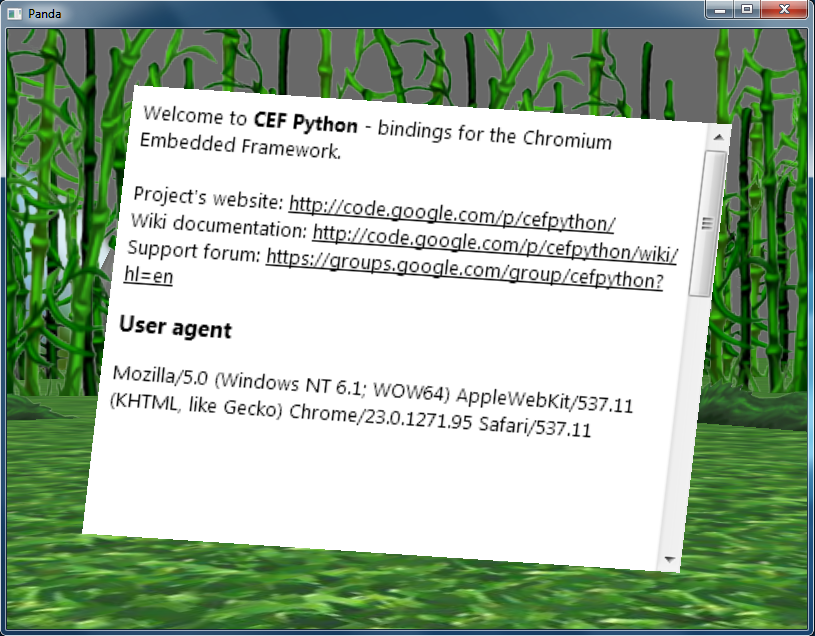
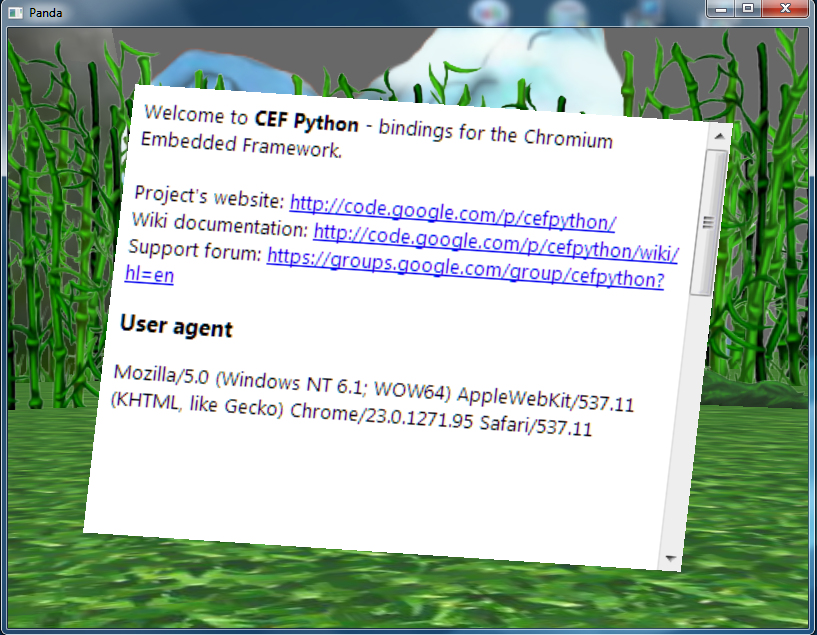
Added an example of saving browser view as an image to cefadvanced.py.
Updated cefwxpanel samples.

Fixed panda3d example, the browser was in grayscale.

diff --git a/cefpython/cef1/windows/binaries/cefadvanced.html b/cefpython/cef1/windows/binaries/cefadvanced.html
@@ -6,6 +6,7 @@
     <style>
     body { font: 13px Segoe UI, Arial; line-height: 1.4em; }
     pre { background: #ddd; font: 12px Consolas, Courier New; }
+    h4 { color: #666; margin: 1em 0em; }
     </style>
 </head>
 <body>
@@ -112,9 +113,22 @@ https://groups.google.com/group/cefpython?hl=en</a><br>
     <a href="javascript:((frame.Undo()))">Undo()</a><br>
     <a href="javascript:((frame.ViewSource()))">ViewSource()</a><br>
 
+<h3>Browser view as an image</h3>
+
+    Browser.GetImage() returns PaintBuffer, that object
+    has method called GetString() that returns the buffer
+    as a string that can be later passed to Python Imaging Library
+    by calling PIL.Image.fromstring() and saved as a PNG (or
+    other format) to a file. Test it:<br>
+    <a href="javascript:python.SaveImage('!cefadvanced.png', 'PNG')">
+    python.SaveImage('!cefadvanced.png', 'PNG')</a><br>
+    (you need to have installed the PIL extension).
+
 <h3>Test unicode string</h3>
 
-    <a href="javascript:alert(python.GetUnicodeString())">python.GetUnicodeString()</a>
+    <a href="javascript:alert(python.GetUnicodeString())">
+    python.GetUnicodeString()</a><br>
+    You should see a long dash in python 2.7.
 
 <h3>Test creation of second browser</h3>
 
@@ -145,10 +159,6 @@ https://groups.google.com/group/cefpython?hl=en</a><br>
 
     <textarea id=jscode>alert('test me')</textarea><br>
     <a href="javascript:python.ExecuteJavascript(jscode.value)">python.ExecuteJavascript(jscode.value)</a> - execute javascript from the textarea above.
-
-<h3>Frame.LoadUrl(url)</h3>
-
-    <a href="javascript:python.LoadUrl()">python.LoadUrl()</a> - will load "cefsimple.html" into main frame of this window.
 
 <h3>Frames</h3>
 
@@ -183,9 +193,6 @@ https://groups.google.com/group/cefpython?hl=en</a><br>
     Call __browser.GetMainFrame().GetProperty("PyConfig"): <a href="javascript:python.PrintPyConfig()">python.PrintPyConfig()</a><br>
     Try setting PyConfig during runtime using __browser.GetMainFrame().SetProperty(): <a href="javascript:python.ChangePyConfig()">python.ChangePyConfig()</a> (then call python.PrintPyConfig())
 
-    <h4>Infinite recursion</h4>
-    Test infinite recursion: <a href="javascript:python.Test1(window)">python.Test1(window)</a> - you will see a python exception in console (also in error.log), data structures can have maximum 8 levels of nesting.
-
 <h3>Javasript callbacks</h3>
 
     <script>
@@ -193,18 +200,15 @@ https://groups.google.com/group/cefpython?hl=en</a><br>
     {
         alert("MyJSCallback() called\narg1="+JSON.stringify(arg1)+"\narg2="+JSON.stringify(arg2)+"\narg3="+JSON.stringify(arg3)+"\narg4="+JSON.stringify(arg4))
     }
-    function MyJSCallback2()
-    {
-        throw new Error("asd")
-    }
     </script>
 
-    <a href="javascript:python.TestJavascriptCallback(MyJSCallback)">python.TestJavascriptCallback(MyJSCallback)</a> - MyJSCallback alerts arguments
-    <br>
-    <a href="javascript:python.TestJavascriptCallback(MyJSCallback2)">python.TestJavascriptCallback(MyJSCallback2)</a> - MyJSCallback2 throws new Error("asd")
-
+    <a href="javascript:python.TestJavascriptCallback(MyJSCallback)">
+    python.TestJavascriptCallback(MyJSCallback)</a><br>
+    MyJSCallback alerts arguments.
 
 <h3>Python callbacks</h3>
+
+    <p>See the output in the console.</p>
 
     <script>
     function JSCallbackForPythonCallback(pycallback)
@@ -216,13 +220,36 @@ https://groups.google.com/group/cefpython?hl=en</a><br>
     <a href="javascript:python.TestPythonCallbackThroughReturn()('some')">python.TestPythonCallbackThroughReturn()('some')</a><br>
     <a href="javascript:python.TestPythonCallbackThroughJavascriptCallback(JSCallbackForPythonCallback)">python.TestPythonCallbackThroughJavascriptCallback(JSCallbackForPythonCallback)</a>
 
-<h3>Catching javascript errors programmatically</h3>
+<h3>Errors</h3>
 
     <p>Typically when you browse a webpage your javascript errors appear in javascript console in developer tools (in cefadvanced.py there is a binding to F12 key for developer tools).</p>
 
-<h3>Test javascript error, OnUncaughtException() callback will catch it</h3>
+    <h4>Global exception handler</h4>
 
-    <p>Test javascript error: <a href="javascript:Undefined()">Undefined()</a></p>
+    <p>You can catch javascript errors programmatically by
+    using JavascriptContextHandler and the OnUncaughtException callback,
+    test it:<br>
+    <a href="javascript:DoSomeError()">
+    DoSomeError()</a>
+    </p>
+
+    <h4>Test error when calling javascript callback from python</h4>
+
+    <script>
+    function JsCallbackThrowingError()
+    {
+        throw new Error("some error message")
+    }
+    </script>
+    <a href="javascript:python.TestJavascriptCallback(JsCallbackThrowingError)">
+    python.TestJavascriptCallback(JsCallbackThrowingError)</a><br>
+    JsCallbackThrowingError throws new Error().
+
+    <h4>Infinite recursion</h4>
+
+    <a href="javascript:python.Test1(window)">python.Test1(window)</a><br>
+    You should see a python exception in the console (also in error.log),
+    data structures can have maximum 8 levels of nesting.
 
 <h3>Moving and resizing window</h3>
 

diff --git a/cefpython/cef1/windows/binaries/cefwxpanel_sample2.py b/cefpython/cef1/windows/binaries/cefwxpanel_sample2.py
@@ -2,15 +2,20 @@
 # __author__ = "Greg Kacy <grkacy@gmail.com>"
 
 import wx
+import wx.lib.agw.flatnotebook as fnb
 
 from cefwxpanel import initCEF, shutdownCEF, CEFWindow
 
 ROOT_NAME = "My Locations"
 
 URLS = ["cefsimple.html",
+        "http://google.com",
+        "http://maps.google.com",
+        "http://youtube.com",
         "http://yahoo.com",
         "http://wikipedia.com",
-        "http://maps.google.com"]
+        "http://cyaninc.com",
+        ]
 
 class MainFrame(wx.Frame):
     def __init__(self):
@@ -26,16 +31,17 @@ class MainFrame(wx.Frame):
             self.tree.AppendItem(self.root, url)
         self.tree.Expand(self.root)
 
-        self.tabs = wx.Notebook(self, id=-1, style=wx.BK_DEFAULT)
+        self.tabs = fnb.FlatNotebook(self, wx.ID_ANY, agwStyle=fnb.FNB_NODRAG|fnb.FNB_X_ON_TAB)
 
     def layoutComponents(self):
-        sizer = wx.BoxSizer()
+        sizer = wx.BoxSizer(wx.HORIZONTAL)
         sizer.Add(self.tree, 0, wx.EXPAND)
         sizer.Add(self.tabs, 1, wx.EXPAND)
         self.SetSizer(sizer)
 
     def initEventHandlers(self):
         self.Bind(wx.EVT_TREE_SEL_CHANGED, self.OnSelChanged, self.tree)
+        self.Bind(fnb.EVT_FLATNOTEBOOK_PAGE_CLOSING, self.OnPageClosing)
         self.Bind(wx.EVT_CLOSE, self.OnClose)
 
     def OnSelChanged(self, event):
@@ -44,7 +50,11 @@ class MainFrame(wx.Frame):
         if url and url != ROOT_NAME:
             cefPanel = CEFWindow(self.tabs, url=str(url))
             self.tabs.AddPage(cefPanel, url)
+            self.tabs.SetSelection(self.tabs.GetPageCount()-1)
+        event.Skip()
 
+    def OnPageClosing(self, event):
+        print "One could place some extra closing stuff here"
         event.Skip()
 
     def OnClose(self, event):

diff --git a/cefpython/cef1/windows/binaries/cefwxpanel.py b/cefpython/cef1/windows/binaries/cefwxpanel.py
@@ -27,7 +27,7 @@ class CEFWindow(wx.Window):
     """Standalone CEF component. The class provides facilites for interacting with wx message loop"""
     def __init__(self, parent, url="", size=(-1, -1), *args, **kwargs):
         wx.Window.__init__(self, parent, id=wx.ID_ANY, size=size, *args, **kwargs)
-
+        self.url = url
         windowInfo = cefpython.WindowInfo()
         windowInfo.SetAsChild(self.GetHandle())
         self.browser = cefpython.CreateBrowserSync(windowInfo, browserSettings={}, navigateURL=url)
@@ -63,12 +63,19 @@ class CEFWindow(wx.Window):
     def OnSize(self, event):
         cefpython.WindowUtils.OnSize(self.GetHandle(), 0, 0, 0)
 
+    #def Shutdown(self):
+        #print "CLOSING PAGE %s, YA MAN" % self.url
+        #self.timer.Stop()
+        #self.browser.CloseBrowser()
 #-------------------------------------------------------------------------------
 
-def initCEF():
-    """Initializes CEF, We should do it before initializing wx"""
+def initCEF(settings=None):
+    """Initializes CEF, We should do it before initializing wx
+       If no settings passed a default is used
+    """
     sys.excepthook = cefpython.ExceptHook
-    settings = {"log_severity": cefpython.LOGSEVERITY_VERBOSE, "release_dcheck_enabled": True}
+    if not settings:
+        settings = {"log_severity": cefpython.LOGSEVERITY_VERBOSE, "release_dcheck_enabled": True}
     cefpython.Initialize(settings)
 
 def shutdownCEF():

diff --git a/cefpython/cef1/windows/binaries/cefadvanced.py b/cefpython/cef1/windows/binaries/cefadvanced.py
@@ -269,6 +269,22 @@ class ClientHandler:
 class Python:
     browser = None
 
+    def SaveImage(self, outfile, format):
+        outfile = cefpython.GetRealPath(outfile)
+        try:
+            from PIL import Image
+        except:
+            print("PIL library not available, can't save image")
+            return
+        (width, height) = self.browser.GetSize(cefpython.PET_VIEW)
+        buffer = self.browser.GetImage(cefpython.PET_VIEW, width, height)
+        image = Image.fromstring(
+            "RGBA", (width,height),
+            buffer.GetString(mode="rgba", origin="top-left"),
+            "raw", "RGBA", 0, 1)
+        image.save(outfile, format)
+        os.system(outfile)
+
     def ExecuteJavascript(self, jsCode):
         self.browser.GetMainFrame().ExecuteJavascript(jsCode)
 

diff --git a/cefpython/cef1/windows/binaries/panda3d_.py b/cefpython/cef1/windows/binaries/panda3d_.py
@@ -55,8 +55,11 @@ class World(DirectObject):
         windowHandle = base.win.getWindowHandle().getIntHandle()
 
         self.texture = Texture()
-        self.texture.setup2dTexture(400, 300, Texture.CMOff,
-                Texture.FLuminanceAlpha)
+        self.texture.setXSize(400)
+        self.texture.setYSize(300)
+        self.texture.setCompression(Texture.CMOff)
+        self.texture.setComponentType(Texture.TUnsignedByte)
+        self.texture.setFormat(Texture.FRgba4)
 
         cardMaker = CardMaker("browser2d")
         cardMaker.setFrame(-0.75,.75,-0.75,0.75)
